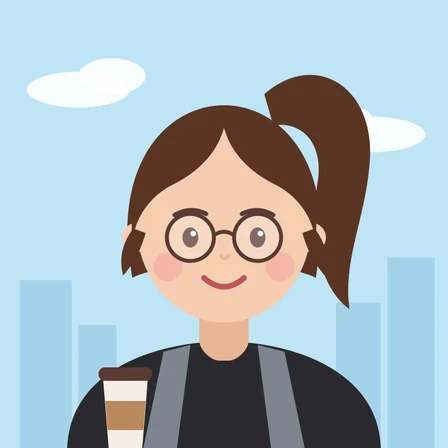
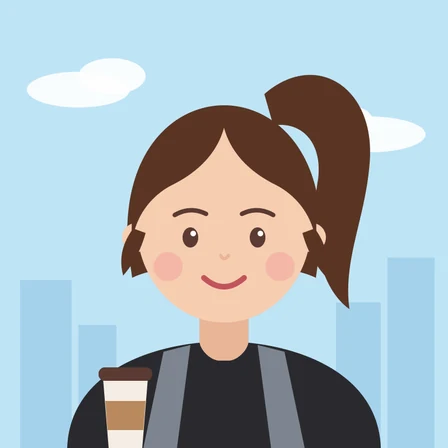
Ảnh thành viên: Uyên Phương không đeo kính

Changed region(s): [[0.3438, 0.4688, 0.6562, 0.5938]]

diff --git a/scripts/make-team-avatars.py b/scripts/make-team-avatars.py
@@ -166,7 +166,7 @@ HEADBAND = '\n  <path d="M124 168 C150 124 250 124 276 168 L270 178 C246 140 154
 AVATARS = {
     "nhat-ha": avatar(hair_short("#2B1B17"), "#970A1D", collar="#FFFFFF", glasses=True, earrings="#F0BF49"),
     "kieu-trang": avatar(hair_wavy("#4A2C22"), "#F7F1EC", collar="#E999A7"),
-    "uyen-phuong": avatar(hair_ponytail("#5A3524"), "#2A2A2E", glasses=True, extra=BACKPACK_AND_CUP),
+    "uyen-phuong": avatar(hair_ponytail("#5A3524"), "#2A2A2E", extra=BACKPACK_AND_CUP),
     "thuc-nhi": avatar(hair_long_curtain("#1F1A1C"), "#5FB894", glasses=True),
     "xuan-tiep": avatar(hair_bun("#3A241D"), "#F0BF49", collar="#FFFFFF"),
     "van-nhu": avatar(hair_pigtails("#2B1B17", "#E999A7"), "#E999A7", extra=HEADBAND),
